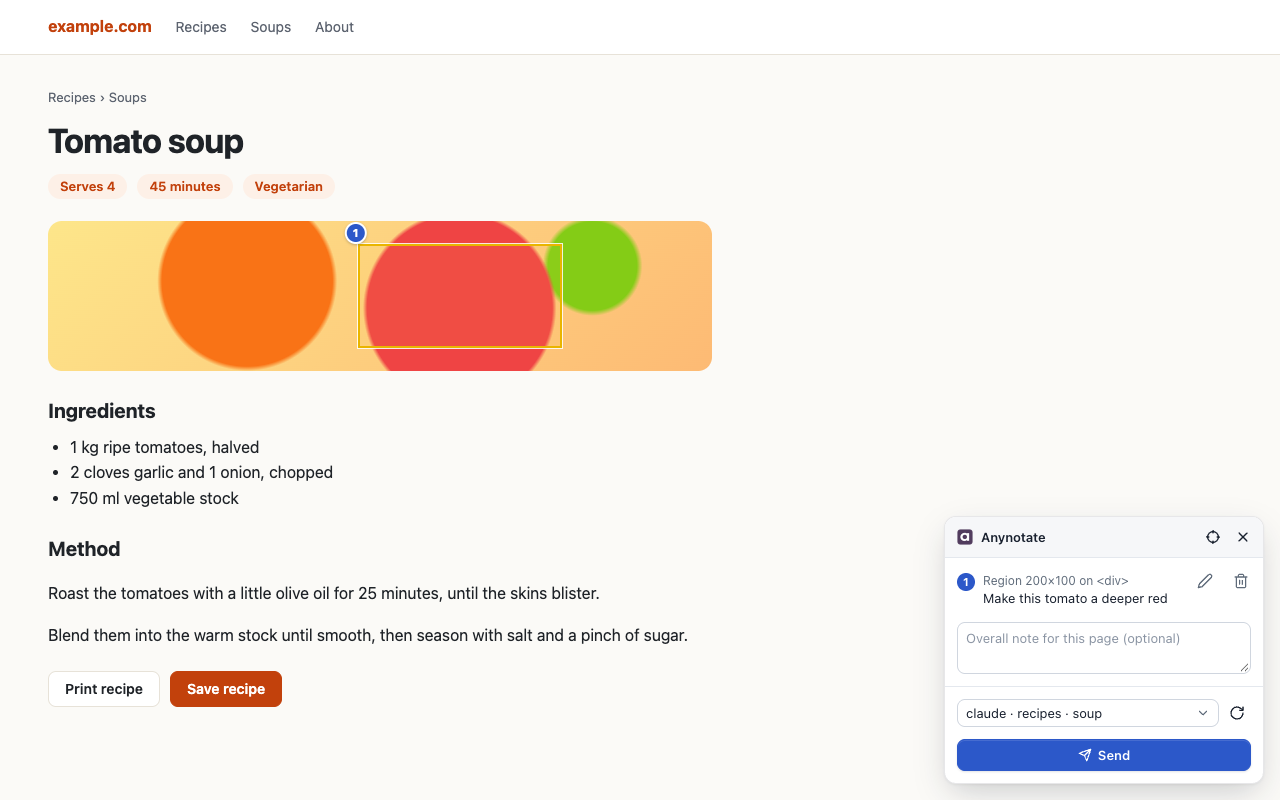
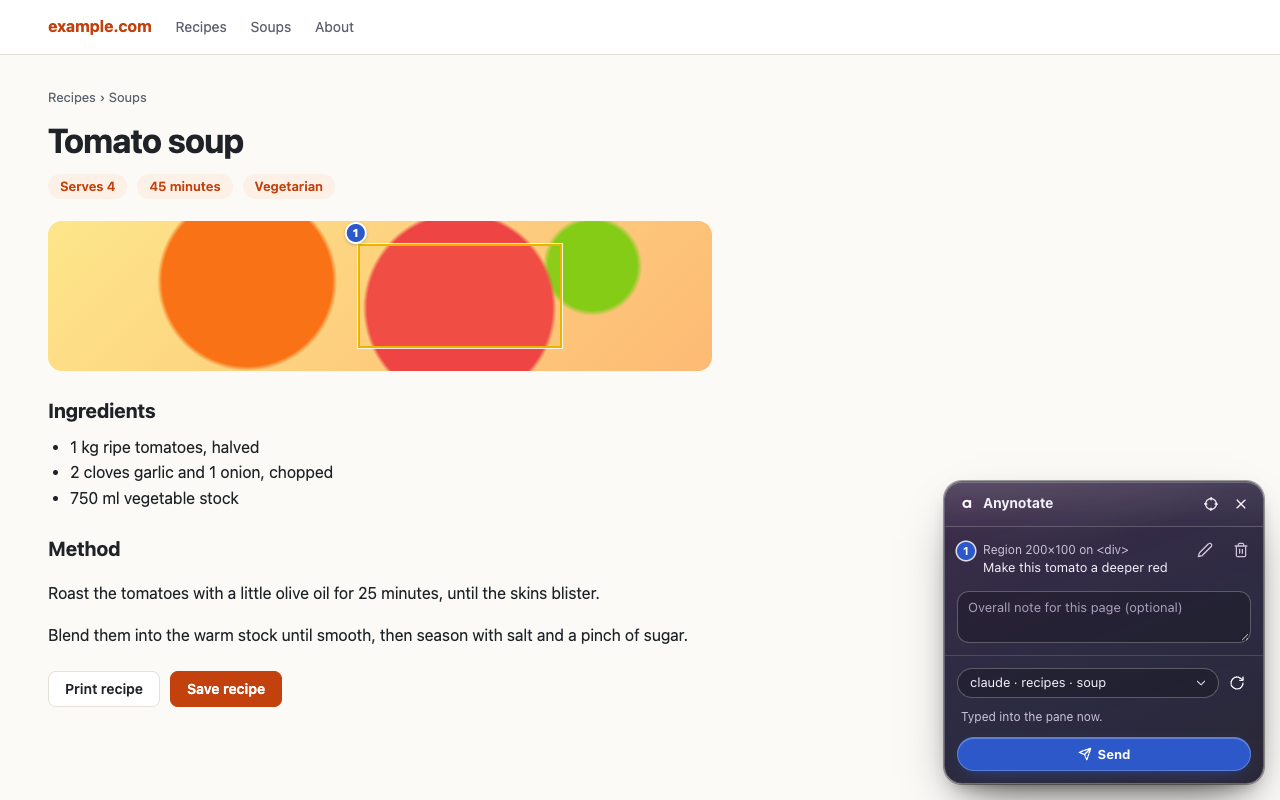
Guide screenshots of the glass panel and pages

Changed region(s): [[0.7188, 0.5938, 1.0, 1.0]]

diff --git a/site/guide/index.html b/site/guide/index.html
@@ -72,7 +72,7 @@
         <li>The extension opens a welcome page. When it says <strong>Connected</strong>, you are ready.</li>
       </ol>
       <figure class="shot narrow">
-        <a class="zoom" href="../img/guide/10-welcome.png"><img src="../img/guide/10-welcome.png" width="656" height="264" loading="lazy" alt="The Anynotate welcome page: a green Connected badge and a three-step tour: press Alt+Shift+A, select text or pick an element, choose a session and press Send."></a>
+        <a class="zoom" href="../img/guide/10-welcome.png"><img src="../img/guide/10-welcome.png" width="676" height="283" loading="lazy" alt="The Anynotate welcome page: a green dot by Connected and a three-step tour: press Alt+Shift+A, select text or pick an element, choose a session and press Send."></a>
         <figcaption>The welcome page finds the bridge by itself.</figcaption>
       </figure>
       <p class="tip">Use herdr? <code>herdr plugin install genexk/anynotate/integrations/herdr</code> installs the bridge too, and adds the <a href="#inbox">inbox popup</a>.</p>
@@ -133,7 +133,7 @@
       </figure>
       <div class="split">
         <figure class="shot small">
-          <a class="zoom" href="../img/guide/12-region-dock.png"><img src="../img/guide/12-region-dock.png" width="360" height="307" loading="lazy" alt="The panel with one note: Region 200×100 on &lt;div&gt;, Make this tomato a deeper red."></a>
+          <a class="zoom" href="../img/guide/12-region-dock.png"><img src="../img/guide/12-region-dock.png" width="360" height="343" loading="lazy" alt="The panel with one note: Region 200×100 on &lt;div&gt;, Make this tomato a deeper red."></a>
           <figcaption>The note's row names the region.</figcaption>
         </figure>
         <div>
@@ -203,15 +203,15 @@
       </ol>
       <div class="shots">
         <figure class="shot small">
-          <a class="zoom" href="../img/guide/6-target-list.png"><img src="../img/guide/6-target-list.png" width="360" height="557" loading="lazy" alt="The panel with three notes and its session picker open. First Inbox · any agent can read it; then under Sessions: kitchen · claude · recipes · soup (selected), store · codex · shop · pricing, claude · Claude app · weekend trip ⏳ and claude · recipes · plan the menu ⏳. The line under the picker reads Typed into the pane now."></a>
+          <a class="zoom" href="../img/guide/6-target-list.png"><img src="../img/guide/6-target-list.png" width="360" height="578" loading="lazy" alt="The panel with three notes and its session picker open. First Inbox · any agent can read it; then under Sessions: kitchen · claude · recipes · soup (selected), store · codex · shop · pricing, claude · Claude app · weekend trip ⏳ and claude · recipes · plan the menu ⏳. The line under the picker reads Typed into the pane now."></a>
           <figcaption>Pick a session.</figcaption>
         </figure>
         <figure class="shot small">
-          <a class="zoom" href="../img/guide/7-sending.png"><img src="../img/guide/7-sending.png" width="360" height="451" loading="lazy" alt="The panel while sending: each note row shows a spinner and the button reads Sending…"></a>
+          <a class="zoom" href="../img/guide/7-sending.png"><img src="../img/guide/7-sending.png" width="360" height="487" loading="lazy" alt="The panel while sending: each note row shows a spinner and the button reads Sending…"></a>
           <figcaption>Sending.</figcaption>
         </figure>
         <figure class="shot small">
-          <a class="zoom" href="../img/guide/8-delivered.png"><img src="../img/guide/8-delivered.png" width="360" height="346" loading="lazy" alt="The panel after sending: the notes are gone and the status line reads 'delivered · typed into claude · recipes · soup'."></a>
+          <a class="zoom" href="../img/guide/8-delivered.png"><img src="../img/guide/8-delivered.png" width="360" height="381" loading="lazy" alt="The panel after sending: the notes are gone and the status line reads 'delivered · typed into claude · recipes · soup'."></a>
           <figcaption>Delivered.</figcaption>
         </figure>
       </div>
@@ -322,7 +322,7 @@
         <li><strong>Advanced</strong> is for a bridge on a different port.</li>
       </ul>
       <figure class="shot narrow">
-        <a class="zoom" href="../img/guide/9-options.png"><img src="../img/guide/9-options.png" width="620" height="720" loading="lazy" alt="The Anynotate options page: Bridge says connected · 2 sessions with Extension 0.2.0 and Bridge 0.6.1; Storage says Unsent notes: 2 on 1 page; Frames from other sites lists *.frame.claudeusercontent.com with a Remove button; Advanced has the bridge URL."></a>
+        <a class="zoom" href="../img/guide/9-options.png"><img src="../img/guide/9-options.png" width="636" height="720" loading="lazy" alt="The Anynotate options page: Bridge says connected · 2 sessions with Extension 0.2.0 and Bridge 0.6.2; Storage says Unsent notes: 2 on 1 page; Frames from other sites lists *.frame.claudeusercontent.com with a Remove button; Advanced has the bridge URL."></a>
         <figcaption>The options page.</figcaption>
       </figure>
       <p>Sent notes are kept in <code>~/.anynotate/inbox/</code> and deleted 30 days after delivery. Change that with <code>anynotate retention 7</code>, or <code>anynotate retention off</code>; <code>anynotate prune</code> deletes everything past the period now.</p>
